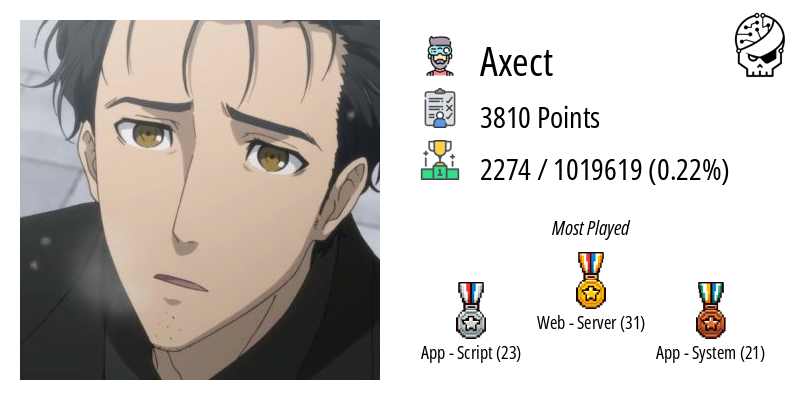
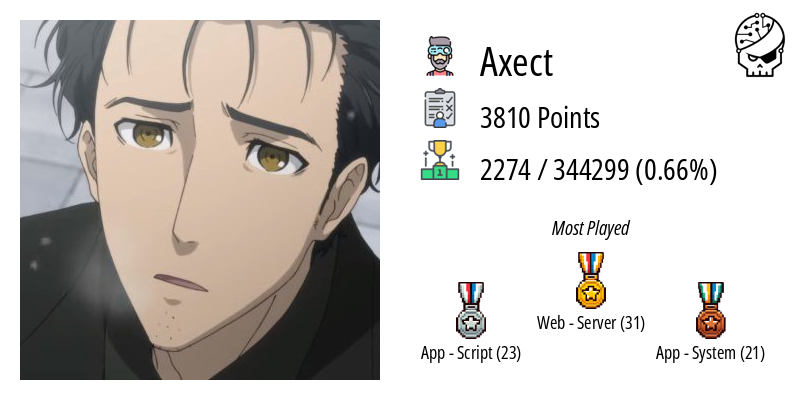
refactor: new computation of raking

Changed region(s): [[0.6875, 0.39, 0.9375, 0.45]]

diff --git a/src/badger.py b/src/badger.py
@@ -25,7 +25,7 @@ from rootme import *
 from badge import *
 
 
-def main():
+def parse_args():
     parser = argparse.ArgumentParser(
         description="RootMeBadger - Generate a badge for Root-Me progress")
 
@@ -36,26 +36,41 @@ def main():
     parser.add_argument("--output", type=str, default="badge.png",
                         help="Output filename for the badge")
 
-    args = parser.parse_args()
+    return parser.parse_args()
 
+
+def main(args):
+    # Fetch user data from Root-Me API
     user_data = get_rootme_user_info(args.user_id, args.api_key)
     if (user_data.get('error')):
         print(f"Error fetching user data: {user_data['error']}")
         exit(1)
 
+    # Download the profile picture
+    if (not download_rootme_image(user_data.get('logo_url'), "profile_picture.png")):
+        exit(1)
+
+    # Retrieve the user's most played rubriques
     user_data["most_played"] = []
     for rub, v in get_most_played_rubriques(user_data)[:3]:
         user_data["most_played"].append((rubrique_lookup_table[int(rub)], v))
 
-    print(f"User data fetched successfully: {user_data}")
+    # Get the total number of users
+    # user_data["total_users"] = get_number_of_users(args.api_key)
+    # if (user_data["total_users"] < 0):
+    #     exit(1)
 
-    if (not download_rootme_image(user_data.get('logo_url'), "profile_picture.png")):
+    # Get the number of ranked users
+    user_data["total_users"] = get_number_of_ranked_users(args.api_key)
+    if (user_data["total_users"] < 0):
         exit(1)
 
-    user_data["total_users"] = get_number_of_users(args.api_key)
-
+    # Create the badge
     create_badge(user_data)
+
+    exit(0)
 
 
 if __name__ == "__main__":
-    main()
+    args = parse_args()
+    main(args)

diff --git a/src/rootme.py b/src/rootme.py
@@ -111,4 +111,26 @@ def get_number_of_users(api_key: str) -> int:
 
     except requests.exceptions.RequestException as err:
         print(f"Error fetching user count: {err}")
-        return 0
+        return -1
+
+
+def get_number_of_ranked_users(api_key: str) -> int:
+    """
+    Fetches the total number of ranked users from Root-Me.
+
+    Args:
+        api_key (str): The Root-Me API KEY.
+    Returns:
+        int: The total number of ranked users.
+    """
+    url = "https://api.www.root-me.org/classement?debut_classement=9999999"
+
+    try:
+        response = requests.get(url, cookies={"api_key": api_key})
+        response.raise_for_status()  # Raise an exception for HTTP errors
+
+        return list(response.json()[0].items())[-1][1].get('place', -1)
+
+    except requests.exceptions.RequestException as err:
+        print(f"Error fetching ranked user count: {err}")
+        return -1
